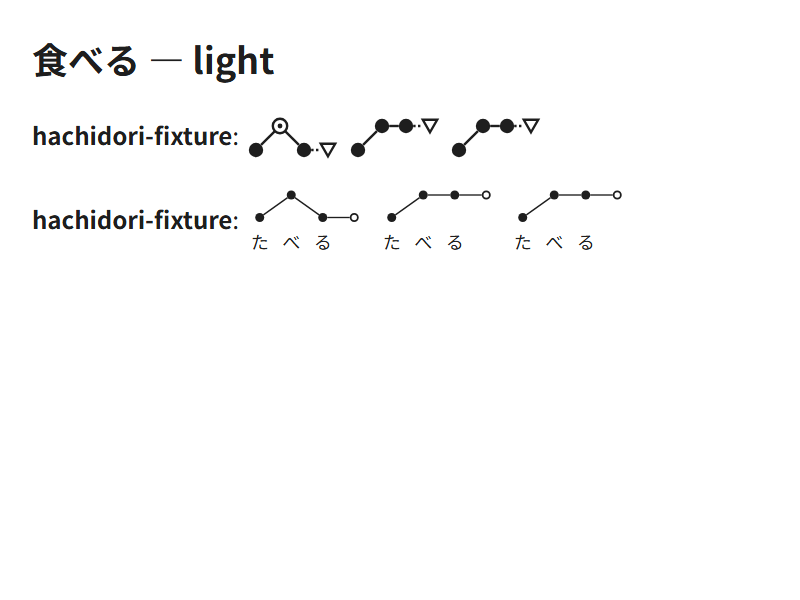
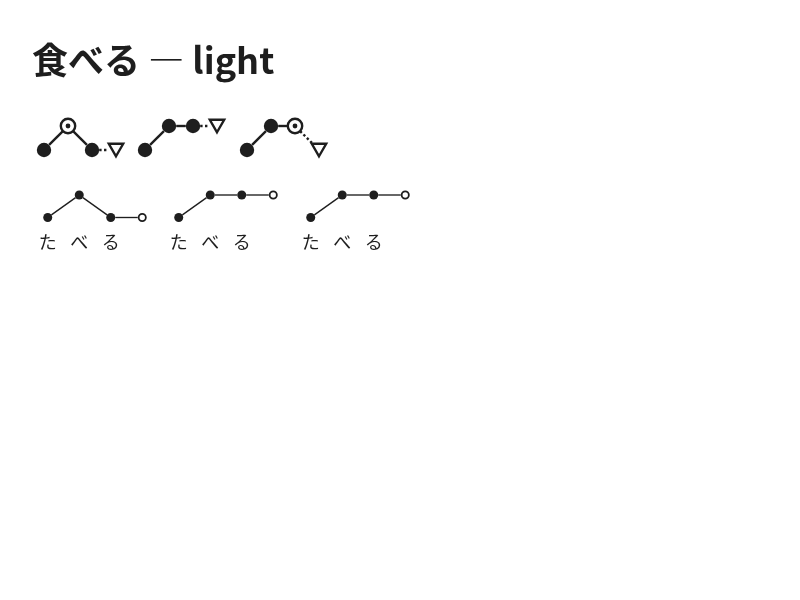
Omit dictionary labels from Anki pitch graphs (#621)
* fix: omit dictionary labels from Anki pitch graphs

{pitch-accent-graphs} and {pitch-accent-graphs-jj} put a bold dictionary
name before each group of SVGs. Graph fields now hold only the graphs,
as Yomitan's pitch-accent-list does; {pitch} keeps its labelled text.

* docs: show label-free Anki pitch graphs

Re-render both card screenshots from the production exporter on the
chrome-e2e card page, say that graph fields carry no dictionary names,
and state the particle rule each graph style uses.

diff --git a/extension/anki-pitch.js b/extension/anki-pitch.js
@@ -71,6 +71,6 @@ export function ankiPitchGraphs(term, kana = false) {
   const reading = term.reading || term.expression;
   return term.pitches.map(group => {
     const graphs = group.pitches.map(pitch => pitchGraph(reading, pitch, kana)).filter(Boolean);
-    return graphs.length ? `<b>${escape(group.dictionary)}</b>: ${graphs.join(" ")}` : "";
+    return graphs.join(" ");
   }).filter(Boolean).join("<br>");
 }

diff --git a/docs/custom-buttons-and-templates.md b/docs/custom-buttons-and-templates.md
@@ -65,12 +65,14 @@ then map an Anki field such as `Graph` to `{pitch-accent-graphs}`. For a graph
 with kana under each mora, use `{pitch-accent-graphs-jj}` (Jidoujisho style).
 Both export inline SVG that follows the card's text color and font size.
 
-Each dictionary's variants are kept in source order. The final hollow symbol
-shows the pitch of a following particle, distinguishing a flat accent from a
-drop after the last mora. Numeric downstep positions and explicit `H`/`L`
-patterns are supported. A pattern may include one extra level for the particle;
-otherwise its final level continues. Missing, transcription-only or invalid
-pitch data leaves the graph field empty.
+Graph fields contain no dictionary names, as in Yomitan. Each dictionary's
+variants are kept in source order, one line per dictionary. The final hollow
+symbol shows the pitch of a following particle, distinguishing a flat accent
+from a drop after the last mora. Numeric downstep positions and explicit `H`/`L`
+patterns are supported. A pattern may include one extra level for the particle.
+Without one, the standard graph leaves the particle low, as Yomitan's graph
+does, and the kana graph continues the final level. Missing, transcription-only
+or invalid pitch data leaves the graph field empty.
 
 Existing graph mappings produce SVG on the next mining operation; stored notes
 are not migrated. Text and position markers keep their existing output. Use
